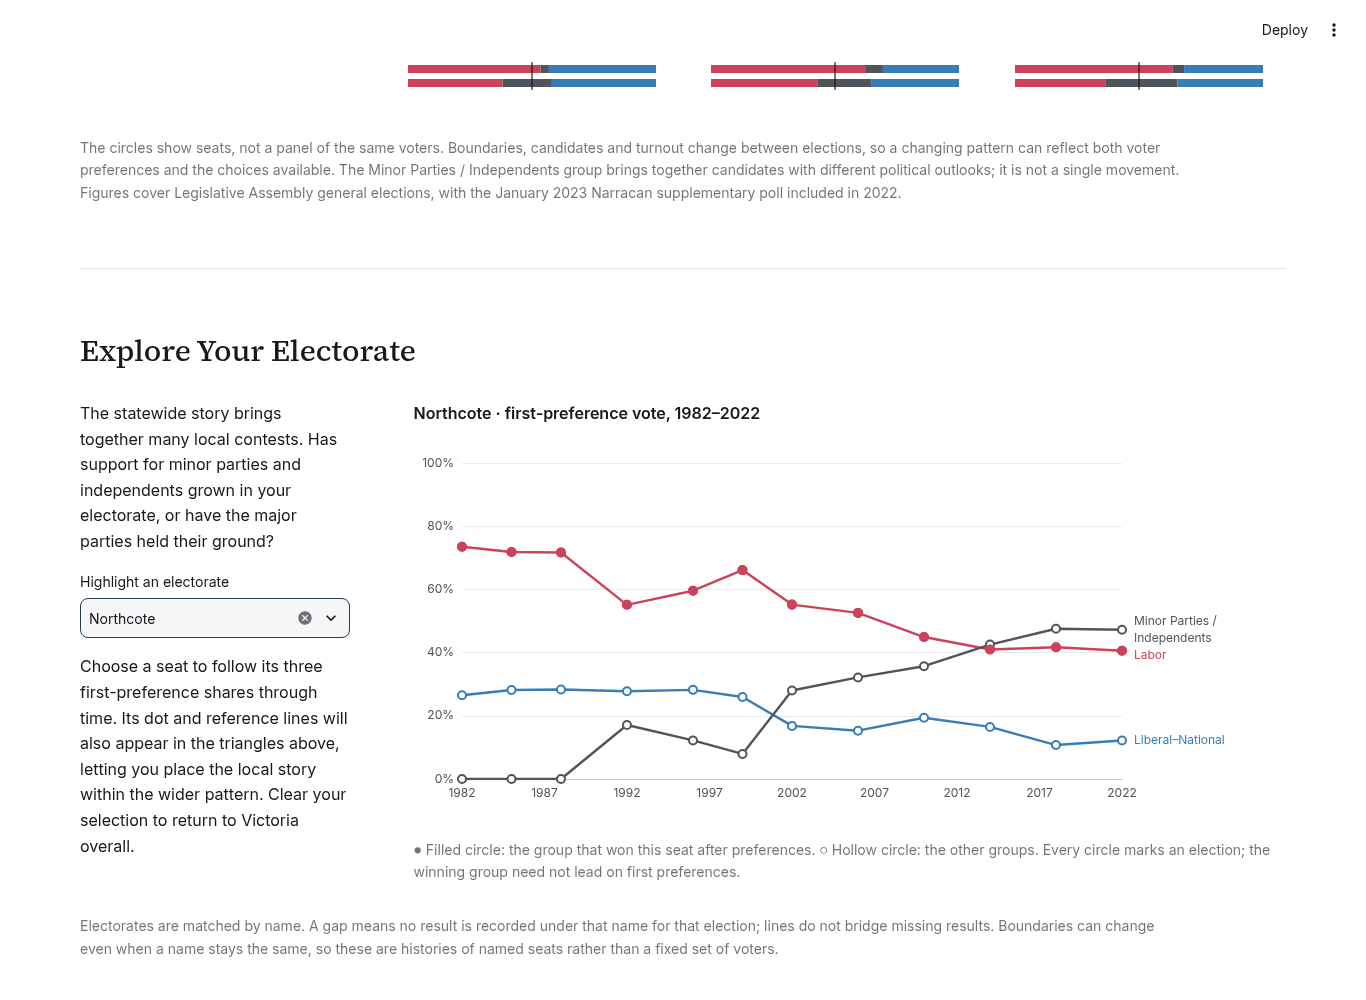
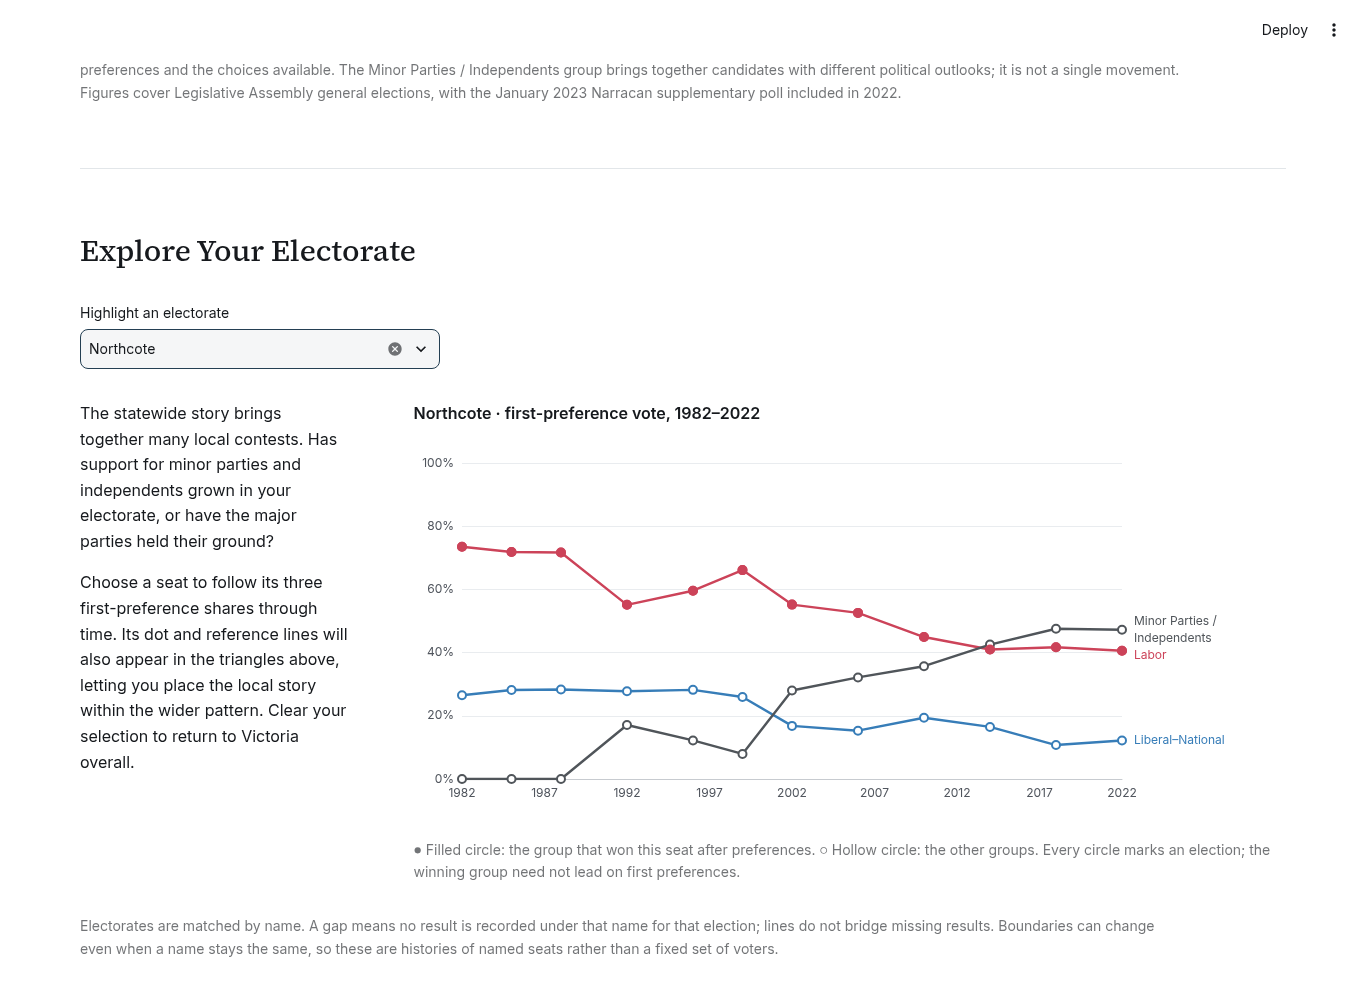
Place electorate selector directly below the explorer heading

diff --git a/app.py b/app.py
@@ -84,10 +84,10 @@ with st.container(horizontal=True, horizontal_alignment="center"):
 
         st.divider()
         st.header("Explore Your Electorate")
+        highlight = st.selectbox("Highlight an electorate", sorted(first.electorate.unique().tolist()), index=None, placeholder="All Victoria · choose an electorate", key="highlight_electorate", width=360)
         explanation, trend = st.columns([1, 3], gap="large")
         with explanation:
             st.markdown("The statewide story brings together many local contests. Has support for minor parties and independents grown in your electorate, or have the major parties held their ground?")
-            highlight = st.selectbox("Highlight an electorate", sorted(first.electorate.unique().tolist()), index=None, placeholder="All Victoria · choose an electorate", key="highlight_electorate")
             st.markdown("Choose a seat to follow its three first-preference shares through time. Its dot and reference lines will also appear in the triangles above, letting you place the local story within the wider pattern. Clear your selection to return to Victoria overall.")
         with trend:
             st.markdown(f"**{highlight or 'Victoria overall'} · first-preference vote, 1982–2022**")

diff --git a/capture.py b/capture.py
@@ -54,6 +54,7 @@ with sync_playwright() as playwright:
     frame.screenshot(path=str(ROOT/'screenshots/ternary-hover-story.png'))
     page.get_by_role('heading',name='Explore Your Electorate',exact=True).scroll_into_view_if_needed()
     page.get_by_role('heading',name='Explore Your Electorate',exact=True).evaluate("el=>el.scrollIntoView({block:'start'})")
+    assert page.get_by_role('combobox').bounding_box()['y'] < page.get_by_text('The statewide story brings together many local contests.',exact=False).bounding_box()['y']
     page.wait_for_timeout(500)
     page.screenshot(path=str(ROOT/'screenshots/explore-statewide.png'))
     # A selected seat keeps its guides after the pointer leaves the chart.
